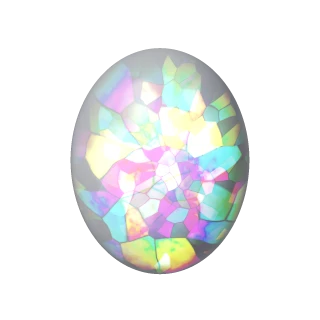
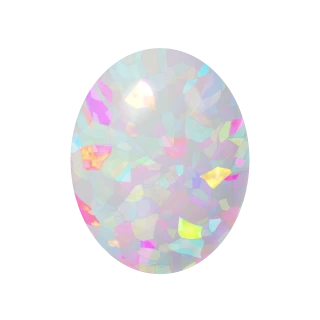
オパールとラブラドライトを、傾けると光る場所と色が変わるように
- 中の層の向きと照明・見る向きから光の強さを計算する layerFlash を足し、石が傾くと光る斑と色が変わるようにした
  （今までは石に固定した向きで計算していたので、揺れても変わらなかった）
- オパール：白い乳白の地に、小さな斑ごとの遊色。斑ごとに向きが違い、向きが合うと強く光って色が移ろう
- ラブラドライト：ユーザーの参考写真に寄せて、煙った暗い地に鮮やかな青を中心とした光（紫がかった青・水色・金）、
  細い平行な筋と細かなひび。傾けると光る斑が変わり、色が金の側へずれる
- 両方のアイコンを書き出し直した。書き出しの bakeGem に傾きの引数を足した（確認用）
- sw.js の版数を v121 に上げ、開発の手引きを更新

Claude-Session: https://claude.ai/code/session_01HT7oCmE99FbJiSFLRkmS6y

Changed region(s): [[0.2188, 0.125, 0.7812, 0.875]]

diff --git a/js/gem-gl.js b/js/gem-gl.js
@@ -225,21 +225,49 @@ float trace(vec3 ro, vec3 rd, float ior, float sig, float sig2, float pleo, floa
   return outv + T * .02;
 }
 
+// 中の層（向き m、物体の座標）が照明を返す強さ。光の向きと見る向きの中間が m に近いほど強い。
+// 画面の座標で比べるので、石が傾くと光る場所と色が変わる。al は向きの合い具合（重み付きの平均）
+float layerFlash(vec3 m, float k, out float al){
+  vec3 mw = normalize(uR * m); float s = 0., ws = 0., as = 0.;
+  for (int i = 0; i < 24; i++) {
+    if (i >= uNL) break;
+    float c = max(dot(normalize(uL[i].xyz + vec3(0, 0, 1)), mw), 0.), w = uL[i].w * (1. - uLc[i].x);
+    s += w * pow(c, k); ws += w; as += w * c;
+  }
+  al = as / max(ws, 1e-4);
+  return s;
+}
+// ラブラドライトの色：紫がかった青 → 鮮やかな青 → 水色 → 金 → 橙
+vec3 labPal(float t){
+  vec3 c = mix(vec3(.35, .22, 1.), vec3(.06, .28, 1.), smoothstep(0., .3, t));
+  c = mix(c, vec3(.12, .6, 1.), smoothstep(.35, .6, t));
+  c = mix(c, vec3(.4, .8, .5), smoothstep(.62, .72, t));
+  c = mix(c, vec3(1., .78, .28), smoothstep(.72, .84, t));
+  return mix(c, vec3(1., .52, .18), smoothstep(.9, 1., t));
+}
+
 // 石ごとの見た目：albedo（地の色）・emit（光の効果）・gloss・tr（半透明）
 void stone(vec2 q, vec3 n, vec3 r, out vec3 alb, out vec3 emit, out float tr){
   float x = q.x, y = q.y; emit = vec3(0); tr = 0.;
   if (uKind == 0) {
-    alb = mix(vec3(.7, .74, .82), vec3(.9, .9, .95), fbm(q * 3., 4, 3.));
+    // オパール：白い地に、小さな斑ごとの遊色。斑ごとに中の格子の向きが違い、向きが合うと強く光って色が移ろう
+    alb = mix(vec3(.8, .82, .86), vec3(.93, .93, .96), fbm(q * 3., 4, 3.));
+    float cover = 0.;
     for (int L = 0; L < 2; L++) {
-      float sc = L == 0 ? 3.4 : 7.5, sd = L == 0 ? 11. : 23., w = L == 0 ? 1. : .7;
-      vec2 wq = q + (vec2(fbm(q * 2., 3, sd), fbm(q.yx * 2., 3, sd + 1.)) - .5) * .25;
+      float sc = L == 0 ? 5. : 10., sd = L == 0 ? 11. : 23., w = L == 0 ? 1. : .75;
+      vec2 wq = q + (vec2(fbm(q * 2., 3, sd), fbm(q.yx * 2., 3, sd + 1.)) - .5) * .3;
       vec3 vo = vor(wq * sc, sd);
-      float hc = vo.z * 6.28; vec3 g = normalize(vec3(cos(hc) * .55, sin(hc) * .55, .72));
-      float al = dot(r, g), inner = fbm(wq * 14., 3, sd + 5.);
-      float k = pow(clamp(al * .5 + .5, 0., 1.), 4.) * smoothstep(0., .1, vo.y - vo.x) * (.55 + .9 * inner) * w;
-      emit += spectral(fract(vo.z * 13.7) + al * .4 + inner * .25) * k * 2.6;
+      float a1 = fract(vo.z * 7.13) * 6.283, a2 = fract(vo.z * 3.71);
+      float al, fs = layerFlash(normalize(vec3(cos(a1) * .9 * a2, sin(a1) * .9 * a2 + .25, 1.)), 34., al);
+      float inner = fbm(wq * 16., 3, sd + 5.);
+      float k = (fs * 8. + .015) * smoothstep(0., .08, vo.y - vo.x) * (.5 + inner) * w;
+      emit += spectral(fract(vo.z * 13.7) + (1. - al) * 1.5 + inner * .2) * k * 1.6;
+      cover = max(cover, min(1., k));
     }
-    tr = .25;
+    alb *= 1. - .45 * cover;
+    // 乳白の地の、内側からのほのかな光
+    emit += vec3(.15, .16, .18) * (1. - cover);
+    tr = .4;
   } else if (uKind == 1) {
     float st = fbm(vec2(x * 2. + y * 6., y * 1.2), 4, 21.);
     alb = mix(vec3(.62, .64, .7), vec3(.85, .86, .9), st) * .45;
@@ -247,11 +275,20 @@ void stone(vec2 q, vec3 n, vec3 r, out vec3 alb, out vec3 emit, out float tr){
     float gl = exp(-pow((c - .88) / .1, 2.)) * 1.6 + exp(-pow((c - .7) / .18, 2.)) * .35;
     emit = vec3(.55, .85, 1.9) * gl; tr = .55;
   } else if (uKind == 2) {
-    float st = fbm(vec2(x * 1.5 + y * .4, (y - x * .3) * 7.), 5, 31.);
-    alb = mix(vec3(.06, .07, .08), vec3(.19, .21, .23), st);
-    float pch = smoothstep(.38, .62, fbm(q * 2.2, 4, 41.)) * (.6 + .4 * st);
-    float fl = pow(clamp(dot(n, normalize(vec3(.3, -.25, .92))), 0., 1.), 3.);
-    emit = spectral(.72 - fbm(q * 1.6, 3, 51.) * .34) * pch * fl * 2.4;
+    // ラブラドライト：煙った暗い地。中の平行な層が光を返して、青を中心に光る（傾けると光る斑が変わり、色が金の側へずれる）
+    // 層の向きと厚み（色）は大きな斑ごとに違う。細い平行な筋と、細かなひびが入る
+    float st = fbm(q * 2.5, 4, 31.);
+    float ln = pow(abs(sin(y * 26. + x * 3. + fbm(q * 1.8, 3, 33.) * 7.)), 90.) * (.4 + .6 * fbm(q * 5., 3, 35.));
+    vec3 vo = vor(q * 3.2, 37.);
+    float crack = 1. - smoothstep(0., .012, vo.y - vo.x);
+    alb = mix(vec3(.045, .04, .036), vec3(.11, .1, .09), st) * (1. - .45 * ln) * (1. - .25 * crack);
+    float pch = smoothstep(.27, .44, fbm(q * 1.7, 4, 41.));
+    vec3 m = normalize(vec3((fbm(q * 1.1, 3, 61.) - .5) * 1.2 + .08, (fbm(q * 1.1, 3, 67.) - .5) * 1.2 + .38, 1.));
+    float al, fs = layerFlash(m, 22., al);
+    float t = clamp(fbm(q * 1.4, 4, 71.) * 1.3 - .45, 0., .6);
+    t = mix(t, .86, smoothstep(.58, .68, fbm(q * 1.05 + 9., 3, 91.)));
+    vec3 c = labPal(clamp(t + (1. - al) * 2., 0., 1.));
+    emit = c * pch * (fs * 9. + .05) * (1. - .4 * ln) * (1. - .35 * crack);
   } else if (uKind == 3) {
     alb = mix(vec3(.04, .55, .55), vec3(.25, .8, .74), fbm(q * 3., 5, 61.));
     float rv = 1. - abs(fbm(q * 2.4, 5, 71.) * 2. - 1.);
@@ -640,14 +677,14 @@ export function mountLiveGem(img, id) {
 
 // ---------------------------------------------------------------- 画像の書き出し（tools/gem-bake.html から使う）
 let baker = null;
-export function bakeGem(id, size) {
+export function bakeGem(id, size, rockT = 0, rockS = 0) {
   if (!baker) {
     const canvas = document.createElement('canvas');
     baker = createRenderer(canvas);
     baker.canvas = canvas;
   }
   baker.load(id);
-  baker.draw(size * 2, 0, 0, 2);
+  baker.draw(size * 2, rockT, rockS, 2);
   const c = document.createElement('canvas');
   c.width = c.height = size;
   const x = c.getContext('2d');

diff --git a/tools/gem-bake.html b/tools/gem-bake.html
@@ -9,7 +9,7 @@
 import { GEM_LOOK, bakeGem } from '../js/gem-gl.js';
 import { BEAST_IDS } from '../js/beasts.js';
 import { bakeBeast } from './beast-art.js';
-window.bake = (id, size) => bakeGem(id, size);
+window.bake = (id, size, rockT, rockS) => bakeGem(id, size, rockT, rockS);
 window.bakeBeast = (id, size) => bakeBeast(id, size);
 window.gemIds = Object.keys(GEM_LOOK);
 window.beastIds = BEAST_IDS;

diff --git a/sw.js b/sw.js
@@ -1,5 +1,5 @@
 // オフラインでも あそべるように キャッシュする
-const CACHE = 'jewel-survivor-v120';
+const CACHE = 'jewel-survivor-v121';
 const ASSETS = [
   './', './index.html', './css/style.css', './manifest.webmanifest',
   './js/main.js', './js/game.js', './js/weapons.js', './js/data.js', './js/render.js', './js/fx.js',

diff --git a/CLAUDE.md b/CLAUDE.md
@@ -45,7 +45,7 @@
 - 大きい背景の光（.rays）を入れるスクロールする画面は `.rays-clip` で包む（スクロールの範囲が光の分だけ広がるため）。はみ出しうる画面の中央寄せは前後の余白 auto で行う（justify-content: center だと上側に届かない）。
 - コイン報酬のアイコンは coinIcon。ユーザーランクは称号の素材の見た目（`.rk-mat` ＋ `.rk-acrylic` / `.rk-glass` / `.rk-crystal`。タイトル左上のチップ・詳細の板・称号の段で共通）。
 - ステージのカード（ステージ選択・図鑑）の背景は scene-art.js の風景（`has-scene` と `--scene`。ui.js の paintScenes が、描き済みはすぐ、まだのものは 1 枚ずつ間をあけて描いて貼る）。カードを選んだときは作り直さず選択の枠だけ付け替える（markSel。作り直すと風景がちらつく）。
-- 宝石の絵は光線追跡（gem-gl.js。カットを平面の集合で作り、屈折・全反射・分散・吸収を計算する。不透明な石はカボション・カット面・丸く磨いた石の描き方）。アイコン（gemIcon）は書き出した画像 `img/gems/<id>.webp` を返す。ホーム・ジュエル選択・コレクションの宝石のカード（持っている宝石）・オークションの競りと落札の画面（宝石の品）の宝石は mountLiveGem でその場で描く（画像の横にキャンバスを置いて入れ替える。キャンバスと WebGL はアプリで 1 つを使い回し、画像が画面から外れると止まる。WebGL が使えないときは画像のまま）。ゲーム中の弾などの小さな宝石は gem-art.js の絵（gemSprite）。見た目を変えたら tools/test/gem-bake.js で書き出し直して画像もコミットする。
+- 宝石の絵は光線追跡（gem-gl.js。カットを平面の集合で作り、屈折・全反射・分散・吸収を計算する。不透明な石はカボション・カット面・丸く磨いた石の描き方。オパールの遊色とラブラドライトのひらめきは、中の層の向きと照明・見る向きから計算する layerFlash で、傾けると光る場所と色が変わる）。アイコン（gemIcon）は書き出した画像 `img/gems/<id>.webp` を返す。ホーム・ジュエル選択・コレクションの宝石のカード（持っている宝石）・オークションの競りと落札の画面（宝石の品）の宝石は mountLiveGem でその場で描く（画像の横にキャンバスを置いて入れ替える。キャンバスと WebGL はアプリで 1 つを使い回し、画像が画面から外れると止まる。WebGL が使えないときは画像のまま）。ゲーム中の弾などの小さな宝石は gem-art.js の絵（gemSprite）。見た目を変えたら tools/test/gem-bake.js で書き出し直して画像もコミットする。
 - ジュエル選択の宝石は額装（case-art.js。奥のベルベット `showcaseBack` は宝石の色の彩度を大きく落としてうっすら乗せる、手前の枠 `showcaseFront` は共通の 1 枚。宝石は gemIcon の img を間に置き、影の位置は `CASE_GEM` と CSS の `.sc-gem` で合わせる）。
 - 実績はメダル（ui.js の medalTier で報酬から 銅・銀・金・虹、`.medal`）。図鑑の敵はモンスターカード（`.mon`。未遭遇はシルエット、ボスは金の額縁）、武器・チャームは属性の色の縁取り（`.gemcard`）。
 
@@ -252,7 +252,7 @@
 ## 6. リリース手順
 
 1. 作業ブランチはセッションで指定されたもの。main に取り込むときに origin/main から作り直すので、先に `git status` で未コミットの新規ファイルを確認する。
-2. sw.js の `CACHE` の版数を 1 つ上げる（現在 `jewel-survivor-v120`）。新しいファイルは `ASSETS` にも足す。
+2. sw.js の `CACHE` の版数を 1 つ上げる（現在 `jewel-survivor-v121`）。新しいファイルは `ASSETS` にも足す。
 3. `node --check` と、変えた箇所だけのテスト。
 4. 取り込み：
    ```sh
